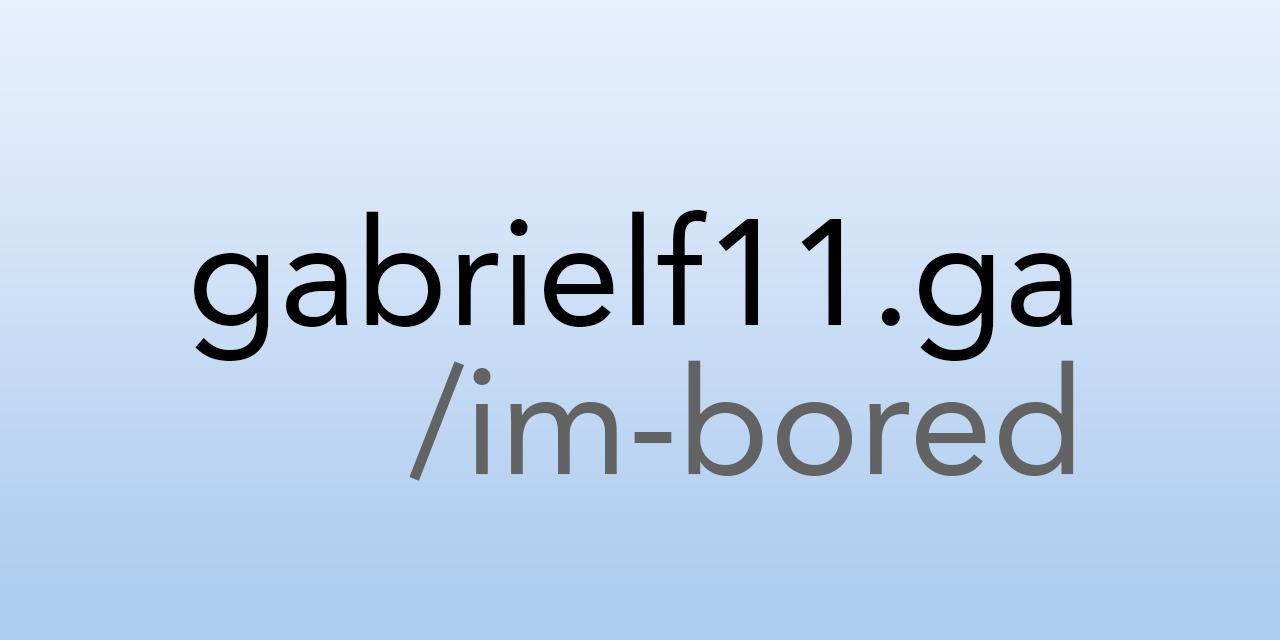
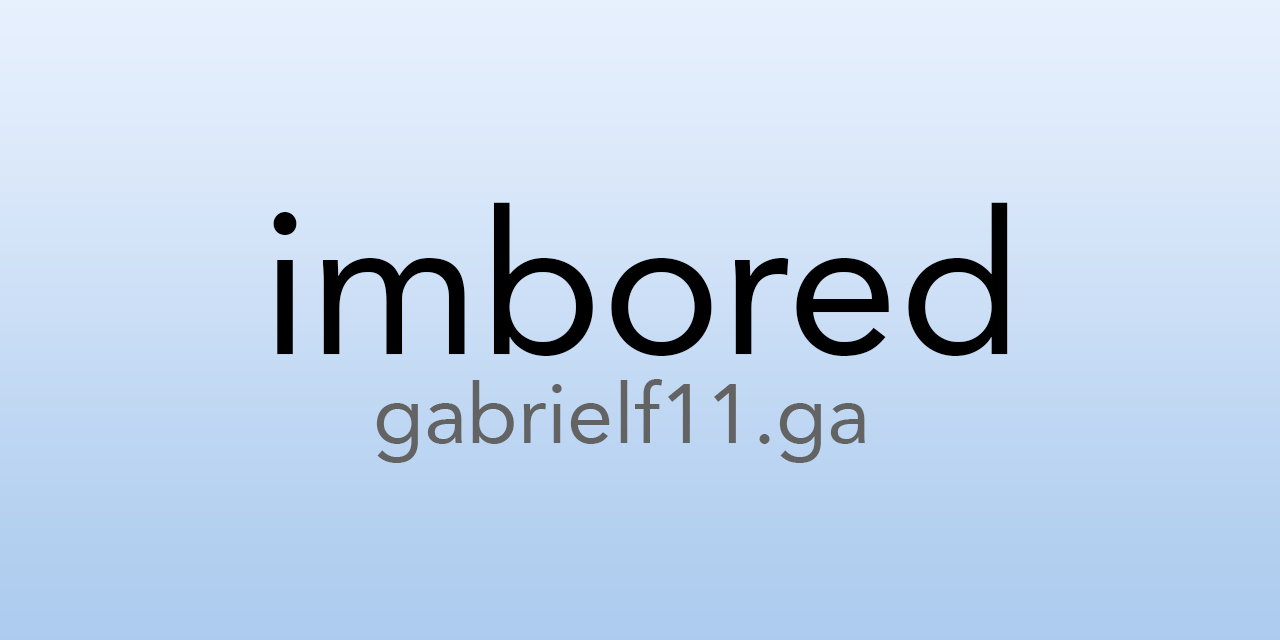
add im bored to projects page

Changed region(s): [[0.125, 0.3125, 0.8438, 0.75]]

diff --git a/projects.html b/projects.html
@@ -180,6 +180,19 @@
             >
           </div>
         </div>
+        <div class="card" style="width: 18rem">
+          <img
+            class="card-img-top"
+            src="/media/website-im-bored.png"
+            alt="gabrielf11.ga"
+          />
+          <div class="card-body">
+            <h5 class="card-title">I'm Bored</h5>
+            <p class="card-text">
+              A list of websites, videos, and more to cure your boredom.
+            </p>
+            <a href="https://imbored.gabrielf11.ga/" class="btn btn-primary">View</a>
+          </div>
       </div>
     </div>
     <script src="https://cdn.blobity.dev/by.js?licenseKey=opensource"></script>
